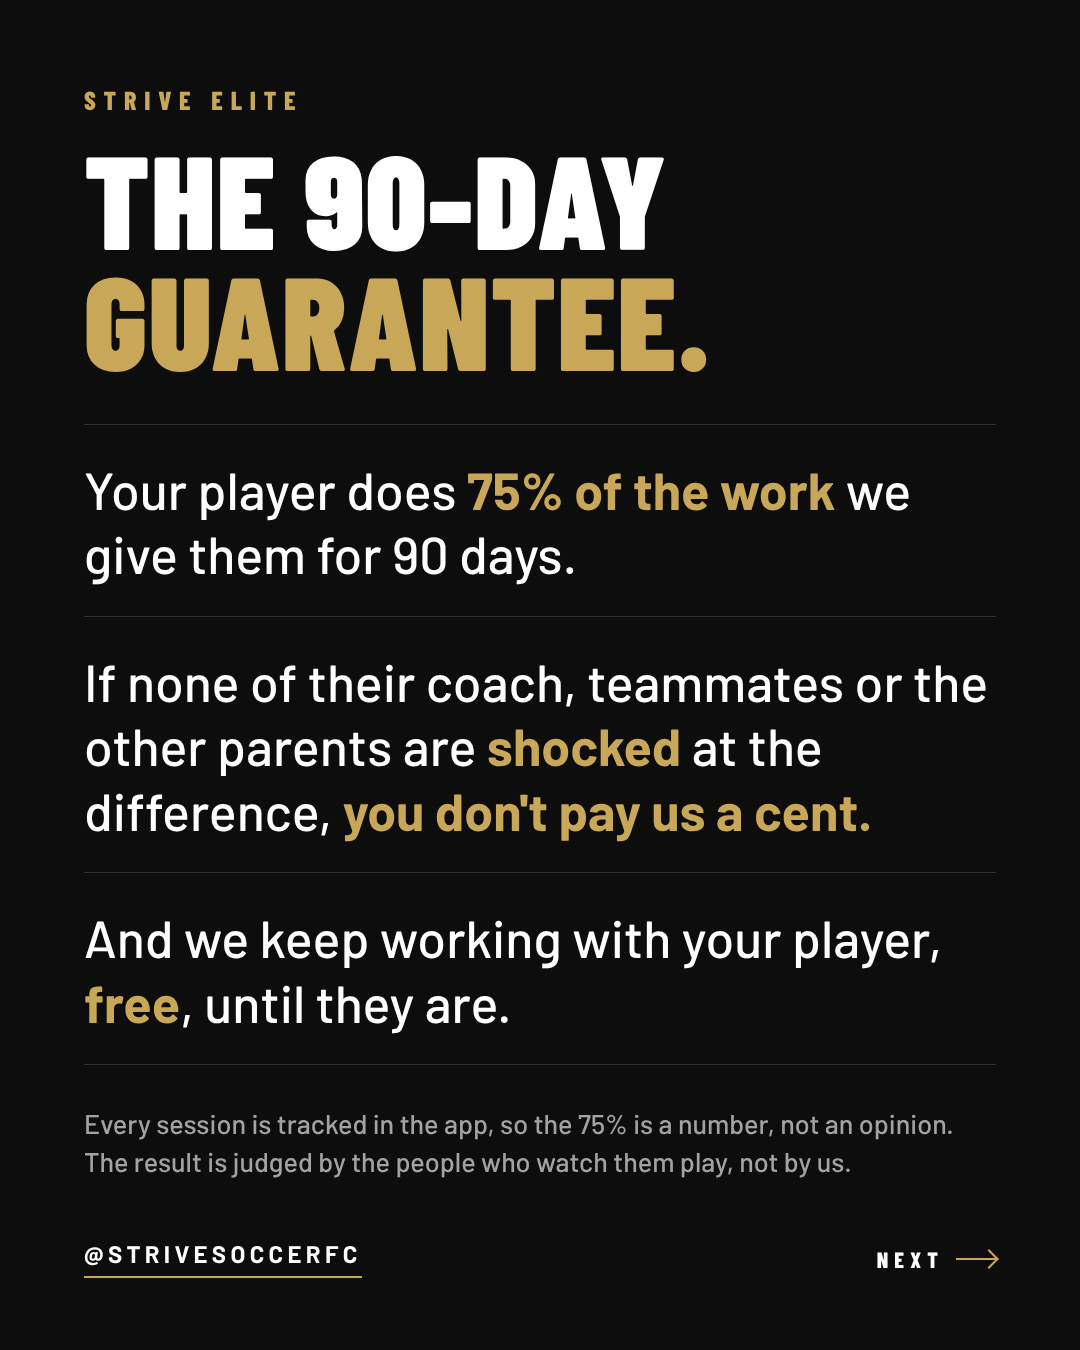
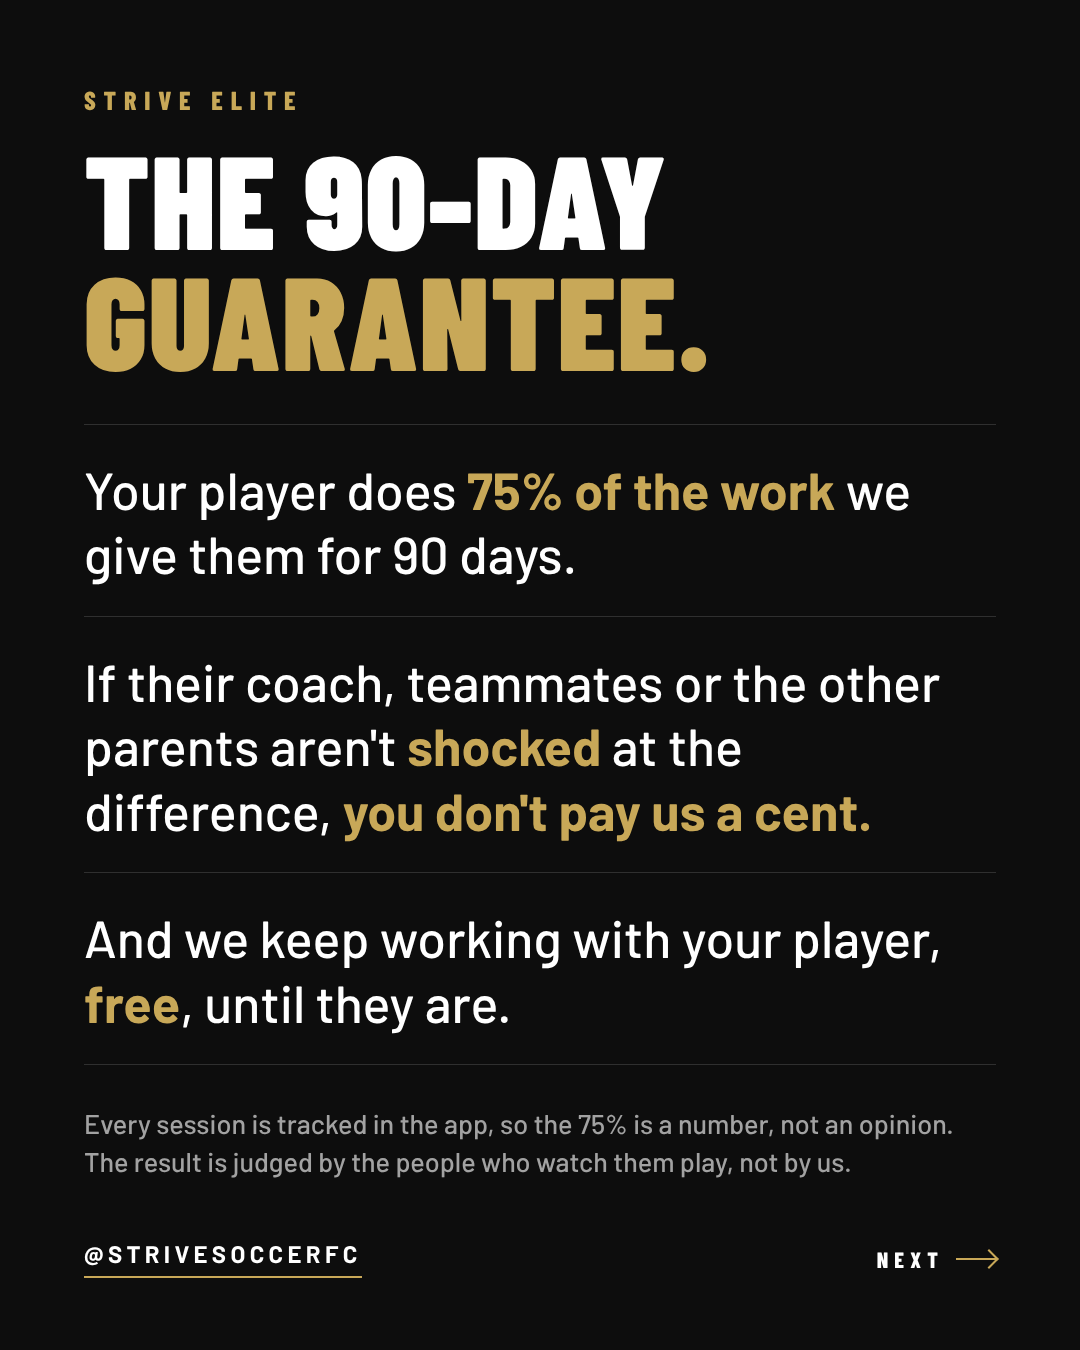
Offer carousel: guarantee step 2 without none
Claude-Session: https://claude.ai/code/session_011JsCTTjCbUkHbTuWTKQSXJ

Changed region(s): [[0.0917, 0.4978, 0.9167, 0.5911]]

diff --git a/marketing/announcement/offer-post/post.html b/marketing/announcement/offer-post/post.html
@@ -53,7 +53,7 @@ h1{font-family:'Barlow Condensed';font-weight:900;font-size:76px;line-height:.95
   <div class="item last"><b>Monthly 1:1 Call</b><p>A deep dive into what to improve next.</p></div>
 </div>
 
-<p class="all">Every member gets all of it, and a guarantee with it. Your player does 75% of the work for 90 days. If none of your player's coach, teammates or the other parents are shocked at the difference, you don't pay us a cent.</p>
+<p class="all">Every member gets all of it, and a guarantee with it. Your player does 75% of the work for 90 days. If your player's coach, teammates or the other parents aren't shocked at the difference, you don't pay us a cent.</p>
 <p class="price">$985 paid in full for the 90 days, <span>or $400 a month.</span></p>
 
 <div class="bar">

diff --git a/marketing/announcement/offer-post/promise.html b/marketing/announcement/offer-post/promise.html
@@ -32,7 +32,7 @@ h1{font-family:'Barlow Condensed';font-weight:900;font-size:132px;line-height:.9
 
 <div class="steps">
   <p class="t">Your player does <b>75% of the work</b> we give them for 90 days.</p>
-  <p class="t">If none of their coach, teammates or the other parents are <b>shocked</b> at the difference, <b>you don't pay us a cent.</b></p>
+  <p class="t">If their coach, teammates or the other parents aren't <b>shocked</b> at the difference, <b>you don't pay us a cent.</b></p>
   <p class="t">And we keep working with your player, <b>free</b>, until they are.</p>
 </div>
 

diff --git a/CLAUDE.md b/CLAUDE.md
@@ -3736,6 +3736,17 @@ commit.
       refund. The standalone post and the caption read the same:
       "If none of your player's coach, teammates or the other parents
       are shocked at the difference, you don't pay us a cent." Sent.
+      THEN (Coach Yinka: "Leave out the word none just say if
+      their"): his decision after the reading risk was flagged. Step 2
+      is "If their coach, teammates or the other parents aren't shocked
+      at the difference, you don't pay us a cent." on the slide, the
+      standalone post ("If your player's coach, teammates or the other
+      parents aren't shocked ...") and the caption. THE RISK STANDS AND
+      MUST BE CLOSED IN THE STAMP, not on the slide: a reader can take
+      this to mean any one of the three not being shocked triggers the
+      refund. The terms written at the stamp should say the guarantee
+      is judged on the whole (nobody shocked = refund) or that the
+      parent's call at day 90 decides. Sent.
 
 ## Growth target (stamped Sept 19, Coach Yinka's own call)
 

diff --git a/marketing/announcement/strive-elite-offer-post.md b/marketing/announcement/strive-elite-offer-post.md
@@ -57,7 +57,7 @@ A deep dive into what to improve next and exactly how to work on it.
 DRIBBLING TRANSFORMATION
 Thirty days of work to become the silkiest, most dangerous dribbler on the team.
 
-Every member gets all of it, and a guarantee with it. Your player does 75% of the work for 90 days. If none of your player's coach, teammates or the other parents are shocked at the difference, you don't pay us a cent. And we keep working with your player, free, until they are.
+Every member gets all of it, and a guarantee with it. Your player does 75% of the work for 90 days. If your player's coach, teammates or the other parents aren't shocked at the difference, you don't pay us a cent. And we keep working with your player, free, until they are.
 
 For ECNL and MLS NEXT players who want the next level. Designed by players who have done just that.
 
